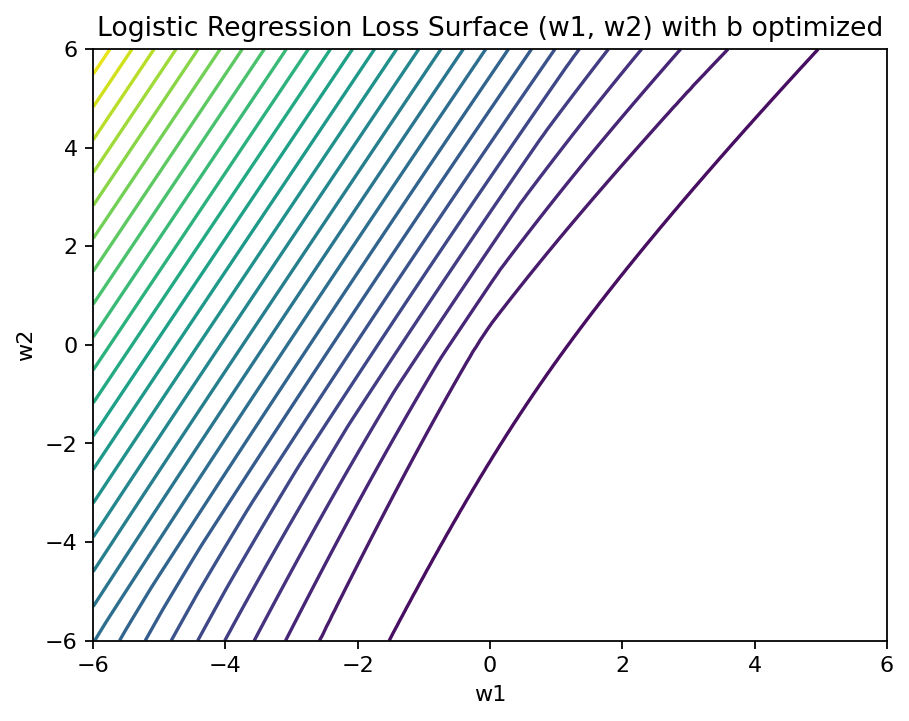
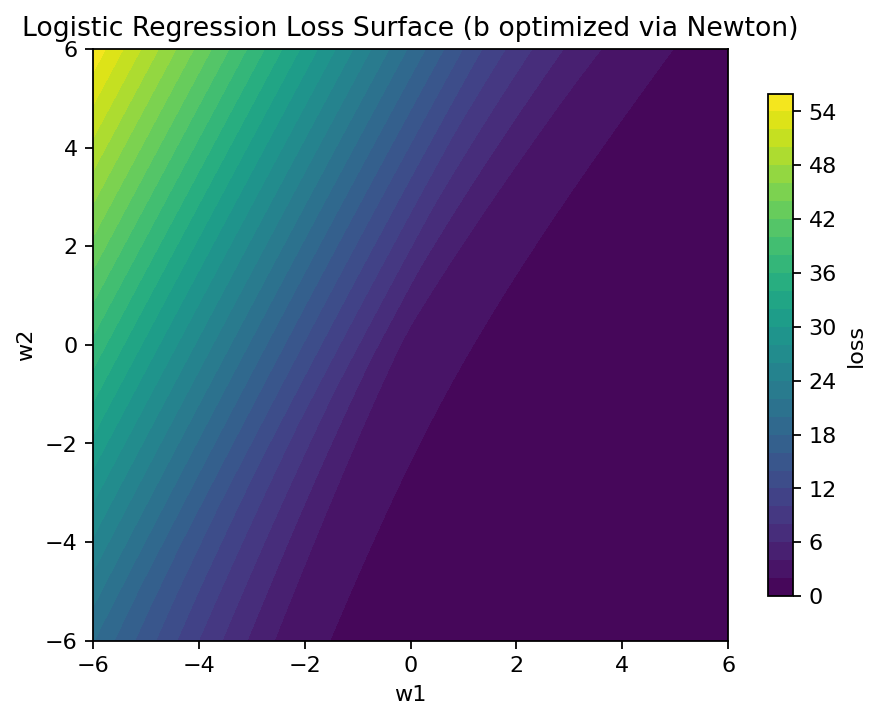
fix: robust logistic loss surface
Switched to Newton-optimized bias and contourf with colorbar; added fallback and range print to guarantee a visible surface.

diff --git a/examples/logreg_surface.py b/examples/logreg_surface.py
@@ -2,7 +2,7 @@ import numpy as np
 import matplotlib.pyplot as plt
 from mfd4.gradient_descent import logistic_loss, gd
 
-# Tiny separable dataset in 2D
+# Tiny 2D dataset
 X = np.array([
     [-2.0,  0.5],
     [-1.0,  1.0],
@@ -15,36 +15,55 @@ y = np.array([0, 0, 0, 1, 1])
 # Build loss/grad on (w1, w2, b)
 f, grad = logistic_loss(X, y, lam=0.0)
 
-# Visualize loss over (w1, w2); for each grid point, optimize b quickly
-w1s = np.linspace(-6, 6, 120)
-w2s = np.linspace(-6, 6, 120)
-W1, W2 = np.meshgrid(w1s, w2s)
-ZZ = np.zeros_like(W1, dtype=float)
+def newton_opt_b(w1: float, w2: float, b0: float = 0.0, iters: int = 25):
+    """
+    Optimize scalar bias b for fixed w=(w1,w2) using 1-D Newton steps:
+      g(b)  = d/d b NLL = sum(sigmoid(Xw + b) - y)
+      g'(b) = sum(p*(1-p))
+    """
+    w = np.array([w1, w2], dtype=float)
+    b = float(b0)
+    for _ in range(iters):
+        z = X @ w + b
+        p = 1.0 / (1.0 + np.exp(-z))
+        g  = np.sum(p - y)                    # first derivative wrt b
+        g2 = np.sum(p * (1.0 - p)) + 1e-12    # second derivative wrt b (add epsilon)
+        b -= g / g2
+        # keep b in a safe numeric range
+        b = float(np.clip(b, -20.0, 20.0))
+    return b
 
+# Grid
+w1s = np.linspace(-6, 6, 160)
+w2s = np.linspace(-6, 6, 160)
+W1, W2 = np.meshgrid(w1s, w2s)
+ZZ = np.empty_like(W1, dtype=float)
+
+# Compute loss surface with b optimized via Newton
 for i in range(W1.shape[0]):
     for j in range(W1.shape[1]):
-        w1 = float(W1[i, j])
-        w2 = float(W2[i, j])
+        w1 = float(W1[i, j]); w2 = float(W2[i, j])
+        b_star = newton_opt_b(w1, w2, b0=0.0, iters=25)
+        ZZ[i, j] = f(np.array([w1, w2, b_star], dtype=float))
 
-        def fb_only(b: float) -> float:
-            params = np.array([w1, w2, float(b)], dtype=float)
-            return f(params)
+# Sanity: replace any NaNs/Infs; print range
+ZZ = np.nan_to_num(ZZ, posinf=np.finfo(float).max/10, neginf=0.0)
+zmin, zmax = float(np.min(ZZ)), float(np.max(ZZ))
+print(f"logreg surface range: min={zmin:.4f}, max={zmax:.4f}")
 
-        def gb_only(b: float) -> float:
-            params = np.array([w1, w2, float(b)], dtype=float)
-            return float(grad(params)[-1])  # gradient w.r.t. b
-
-        # One-dimensional GD on b (scalar)
-        b0 = 0.0
-        lr_b = 0.2
-        for _ in range(40):
-            b0 = b0 - lr_b * gb_only(b0)
-        ZZ[i, j] = fb_only(b0)
-
-# Save surface contour
 plt.figure()
-plt.contour(W1, W2, ZZ, levels=30)
-plt.title("Logistic Regression Loss Surface (w1, w2) with b optimized")
+drange = zmax - zmin
+try:
+    if drange <= 1e-8:
+        raise RuntimeError("range too small for contours")
+    cf = plt.contourf(W1, W2, ZZ, levels=30)
+    plt.colorbar(cf, shrink=0.85, label="loss")
+except Exception as _:
+    # Fallback: imshow if contouring is unhappy
+    im = plt.imshow(ZZ, origin="lower", extent=[w1s.min(), w1s.max(), w2s.min(), w2s.max()], aspect="auto")
+    plt.colorbar(im, shrink=0.85, label="loss")
+
+plt.title("Logistic Regression Loss Surface (b optimized via Newton)")
 plt.xlabel("w1"); plt.ylabel("w2")
 plt.savefig("figures/logreg_surface.png", dpi=160, bbox_inches="tight")
 
@@ -52,7 +71,11 @@ plt.savefig("figures/logreg_surface.png", dpi=160, bbox_inches="tight")
 x0 = np.array([0.0, 0.0, 0.0])
 _, path, _ = gd(f, grad, x0=x0, lr=0.5, steps=200)
 plt.figure()
-plt.contour(W1, W2, ZZ, levels=30)
+# Reuse the computed surface but show as contours for context
+try:
+    cs = plt.contour(W1, W2, ZZ, levels=30)
+except Exception:
+    cs = plt.contour(W1, W2, ZZ, levels=5)
 plt.plot(path[:,0], path[:,1], marker='o', linewidth=1)
 plt.title("GD Path on Logistic Loss (projected onto w1-w2)")
 plt.xlabel("w1"); plt.ylabel("w2")
